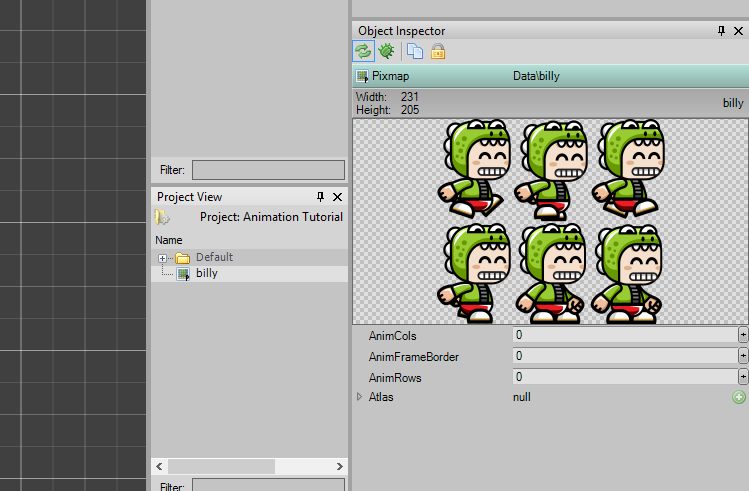
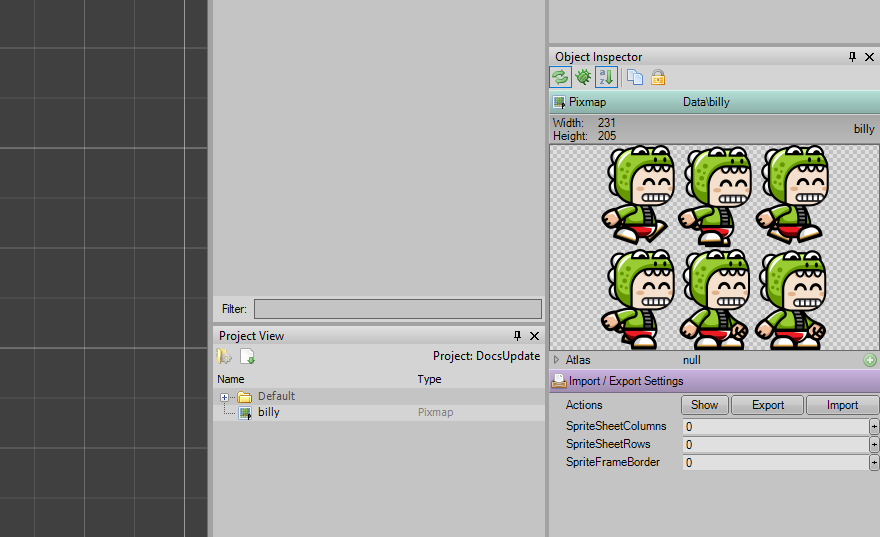
Working With Animations - SpriteAnimator Update (#36)

diff --git a/pages/v3/Working-With-Animations.md b/pages/v3/Working-With-Animations.md
@@ -12,30 +12,39 @@ Very few games are made that don't need animations. Duality supports animations 
 So, what is needed for an animation?
 A spritesheet. A spritesheet is nothing more than a sequence of images that when shown in sequence form an animation.
 So, let's just use this one (Downloaded from OpenGameArt, character created by Bevouliin):
+
 ![](../img/Animation/Animation1.png)
 
-Save it somewhere on your computer...
-
-And open Duality.
+Save it somewhere on your computer and open Duality.
 
 Drag and drop the spritesheet to the project view.
 
 Looking to the right you see a few fields that relate to animation. In our example, you see Billy six times doing different things.
+
 ![](../img/Animation/Animation2.png)
-Insert 3 in the AnimCols and 2 in the AnimRows. AnimFrameBorder is only if you have borders between the frames.
+
+Insert 3 in the SpriteSheetCoumns and 2 in the SpriteSheetRows. SpriteFrameBorder is only if you have borders between the frames and click the Import button.  This will create your Atlas for you.  It should now look like this:
+
+![](../img/Animation/Animation2_5.png)
 
 Create a new GameObject by right-clicking in the scene view and give it a name: Billy (I call it that)
-In Billy, add a new AnimSpriteRenderer Component.
+In Billy, add a new SpriteAnimator (New -> Graphics -> SpriteAnimator).  This will automatically create a Transform and SpriteRenderer in your GameObject.
 
 ![](../img/Animation/Animation3.png)
 
-You will Duality's logo appearing. That's ok. Drag Billy's Pixmap over AnimSpriteRenderer and you'll see Billy in your scene.
+You will see the Duality logo appearing. That's ok. In the SpriteRenderer, drag Billy's Pixmap from the Project View window over the SharedMaterial and update the values of the Rect to be positioned at -35 and -51.2 with a width of 77 and a height of 102.5. These values are the size of a single cell frame of the spritesheet (231 / 3 = 77 and 205 / 2 = 102.5). 
+
+Set the AnimDuration to 1.0, the FirstFrame to 0 and the FrameCount to 4 (The walk animation is 4 frames long).
+
+![](../img/Animation/Animation3_5.png)
+
+Now you'll see Billy (correctly proportioned) in your scene.
 
 ![](../img/Animation/Animation4.png)
 
 Pressing play, you will see the full animation running, slowly.
 
-By tweaking the values in AnimSpriteRenderer, you can control the animation speed, when it starts, when it ends, if it starts automatically, etc.
+By tweaking the values in SpriteAnimator, you can control the animation speed, when it starts, when it ends, if it starts automatically, etc.
 
 # Controlling Animations
 
@@ -72,9 +81,9 @@ Here is the method:
 ```csharp
 private void PlayAnimation(int firstFrame, int frameCount)
 {
-	var animation = this.GameObj.GetComponent<AnimSpriteRenderer>();
-	animation.AnimFirstFrame = firstFrame;
-	animation.AnimFrameCount = frameCount;
+	var animation = this.GameObj.GetComponent<SpriteAnimator>();
+	animation.FirstFrame = firstFrame;
+	animation.FrameCount = frameCount;
 }
 ```
 
